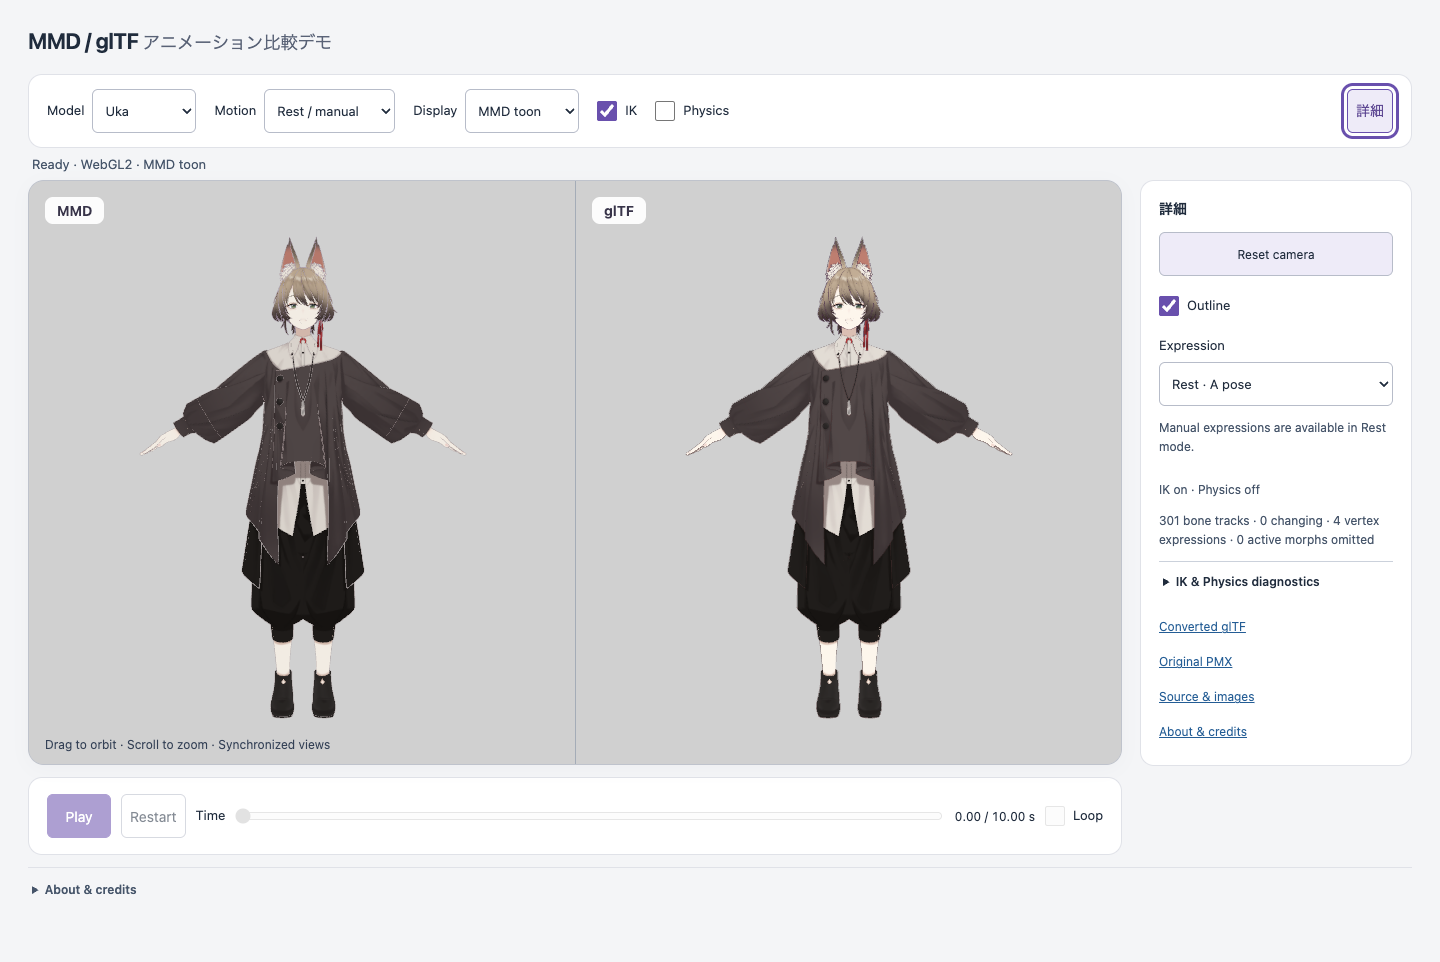
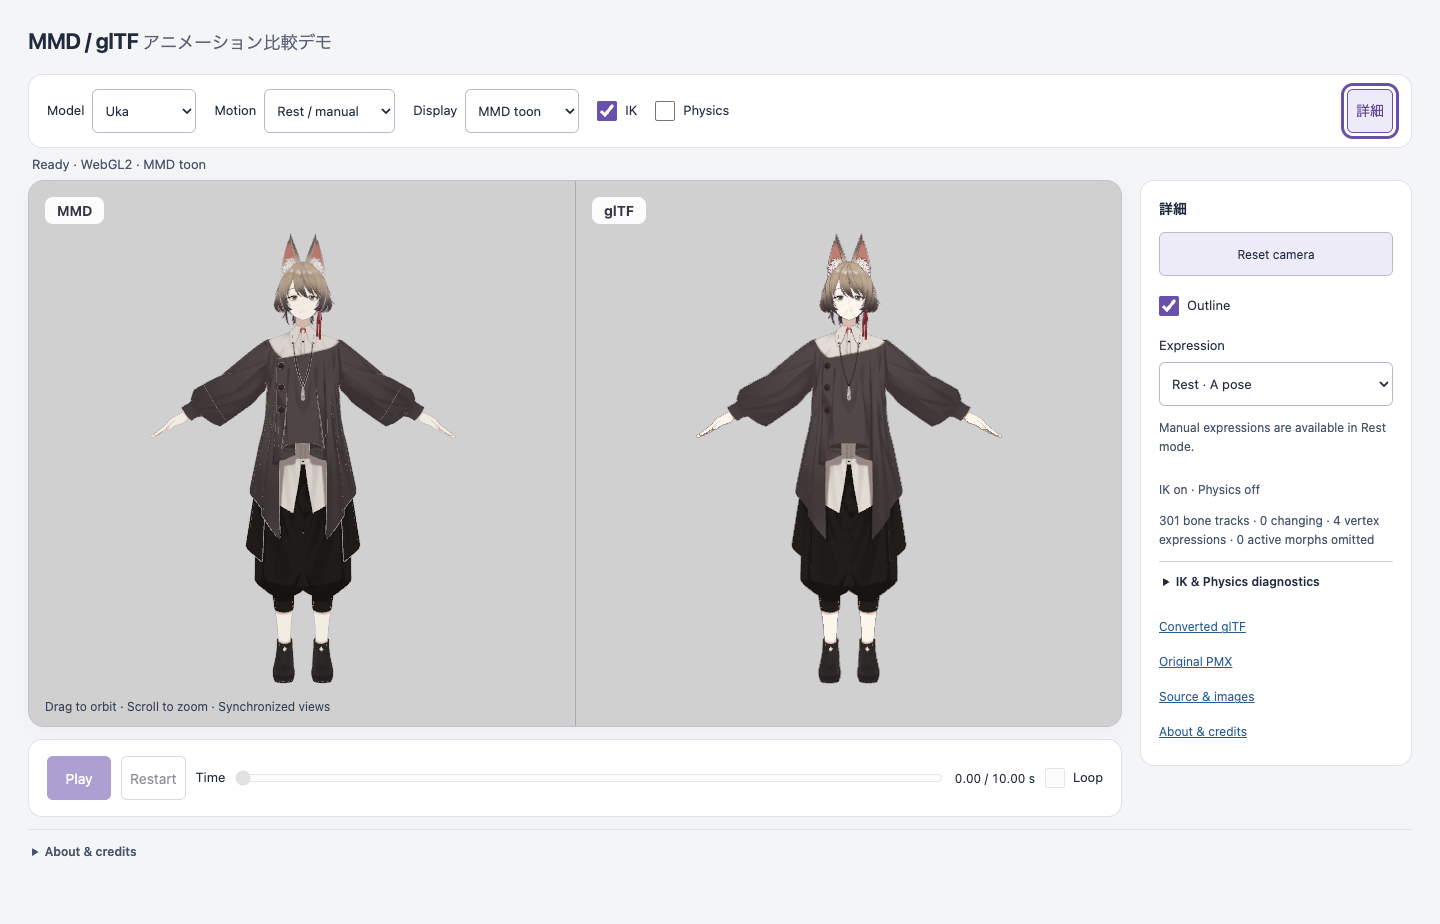
Prevent Details from cropping tablet comparison models (#83)

diff --git a/tests/browser/unified-demo.spec.ts b/tests/browser/unified-demo.spec.ts
@@ -1,6 +1,7 @@
 import { openComparisonDetails } from './demo-controls';
 import { orbitComparison } from './comparison-camera';
 import { test, expect, type Page } from '@playwright/test';
+import { PerspectiveCamera, Vector3 } from 'three';
 
 test.use({ contextOptions: { reducedMotion: 'reduce' } });
 const preview = `http://127.0.0.1:${process.env.MMD_PREVIEW_PORT || 43180}/mmd-gltf/`;
@@ -363,7 +364,7 @@ test('public layout: keyboard Details, responsive shared stage, framing and reso
   await page.locator('#comparison-camera-reset').click();
   await expect.poll(async () => (await state()).cameras[0].slice(0, 6)).toEqual(initialCamera);
 
-  for (const [width, height] of [[1440, 900], [900, 900], [390, 844], [320, 844]]) {
+  for (const [width, height] of [[1440, 900], [1201, 1366], [1200, 1366], [1024, 1366], [901, 900], [900, 900], [390, 844], [320, 844]]) {
     await page.setViewportSize({ width, height });
     for (const expanded of [false, true]) {
       if (await page.locator('#comparison-details-toggle').getAttribute('aria-expanded') !== String(expanded)) {
@@ -376,10 +377,12 @@ test('public layout: keyboard Details, responsive shared stage, framing and reso
       expect(pmx.width).toBeCloseTo(gltf.width, 0); expect(pmx.height).toBeCloseTo(gltf.height, 0);
       if (width <= 900) {
         expect(pmx.x).toBe(gltf.x); expect(gltf.y).toBeGreaterThanOrEqual(pmx.y + pmx.height);
-        if (expanded) expect((await page.locator('#comparison-details').boundingBox())!.y)
+      }
+      if (expanded) {
+        const details = (await page.locator('#comparison-details').boundingBox())!;
+        if (width <= 1200) expect(details.y)
           .toBeGreaterThan((await page.locator('.comparison-playback').boundingBox())!.y);
-      } else if (expanded) {
-        expect((await page.locator('#comparison-details').boundingBox())!.x).toBeGreaterThanOrEqual(gltf.x + gltf.width);
+        else expect(details.x).toBeGreaterThanOrEqual(gltf.x + gltf.width);
       }
       for (const id of ['demo-model', 'comparison-motion', 'material', 'comparison-ik', 'comparison-physics', 'comparison-details-toggle', 'comparison-time']) {
         const box = (await page.locator(`#${id}`).boundingBox())!;
@@ -389,6 +392,29 @@ test('public layout: keyboard Details, responsive shared stage, framing and reso
       expect((await page.locator('#comparison-time').boundingBox())!.width).toBeGreaterThan(width <= 900 ? 180 : 200);
       await page.evaluate(() => window.scrollTo(0, 0));
       await page.evaluate(() => (window as any).captureMMDComparisonCanvas());
+      // The complete rest bounds (including hands) must fit both actual rendered
+      // frusta, even on tall tablets with Details open. Resizing must not refit
+      // the camera, and Reset must retain the same complete framing.
+      if (expanded && (width === 901 || width === 1024)) {
+        await page.locator('#comparison-camera-reset').click();
+        await page.evaluate(() => (window as any).captureMMDComparisonCanvas());
+      }
+      const current = await state();
+      for (const [index, bounds] of [current.reference.bounds, current.gltf.bounds].entries()) {
+        const values = current.cameras[index];
+        expect(values.slice(0, 6)).toEqual(initialCamera);
+        const camera = new PerspectiveCamera(values[7], values[6], .01, 100);
+        camera.position.fromArray(values);
+        camera.lookAt(new Vector3().fromArray(values, 3));
+        camera.updateMatrixWorld(true);
+        for (const x of [bounds.min[0], bounds.max[0]])
+          for (const y of [bounds.min[1], bounds.max[1]])
+            for (const z of [bounds.min[2], bounds.max[2]]) {
+              const point = new Vector3(x, y, z).project(camera);
+              expect(Math.abs(point.x), `${width}×${height}, Details ${expanded}, pane ${index}: horizontal framing`).toBeLessThan(.98);
+              expect(Math.abs(point.y), `${width}×${height}, Details ${expanded}, pane ${index}: vertical framing`).toBeLessThan(.98);
+            }
+      }
       await page.screenshot({ path: info.outputPath(`after-${width}-${expanded ? 'expanded' : 'collapsed'}.png`), fullPage: true });
     }
   }

diff --git a/examples/style.css b/examples/style.css
@@ -367,8 +367,23 @@ a {
 .comparison-playback output { font-size:12px; font-variant-numeric:tabular-nums; white-space:nowrap; }
 #about-demo { border-top:1px solid #e0e2e8; }
 
-@media(max-width:900px) {
+/* Keep each desktop pane at least square so the saved model framing also fits
+   horizontally on tall windows. Narrower screens retain the stacked stage. */
+@media(min-width:901px) {
+  #viewport {
+    width:100%;
+    aspect-ratio:2;
+    height:auto;
+    min-height:0;
+    max-height:clamp(440px,65vh,760px);
+  }
+}
+
+@media(max-width:1200px) {
   .comparison-layout:has(>aside:not([hidden])) { grid-template-columns:minmax(0,1fr); }
+}
+
+@media(max-width:900px) {
   .primary-toolbar { padding:12px; gap:10px; }
   #comparison-primary { display:contents; }
   .primary-toolbar > label:not(.toggle), #comparison-primary > label:not(.toggle) {

diff --git a/docs/comparison-ui.md b/docs/comparison-ui.md
@@ -8,7 +8,9 @@ are announced above the stage even with Details closed.
 
 **詳細** (Details) is a keyboard-operable disclosure button. On wide screens it
 opens a secondary panel beside the viewers; closing it restores both viewers'
-width. At 900px and below it opens below the viewers and timeline. It contains
+width. At 1200px and below it opens below the viewers and timeline. Above 900px,
+each viewer stays at least square to keep the full default model framing visible
+on tall windows; at 900px and below the viewers stack vertically. It contains
 model-specific camera reset, Outline, Uka's manual Rest-mode Expression selector,
 read-only binding/IK/Physics diagnostics and actual model/source downloads.
 Reset camera restores the selected model's initial shared orbit, target and zoom
@@ -128,3 +130,30 @@ The Uka long seek completed locally in **52,368 ms**, at tick 1188 and time 9.9,
 with no constraint failures or browser errors and zero native allocations after
 cleanup. A hosted CI rerun for this correction remains pending publication;
 this revision does not push or merge.
+
+### Tablet framing correction (2026-11-05)
+
+Details now opens below the timeline through 1200px. Above the 900px stacking
+breakpoint, the stage height is capped relative to its width so each pane stays
+at least square. This preserves Uka's complete default framing on tall tablets
+without changing the camera or resetting an existing orbit. Closing the desktop
+sidebar still restores the full viewer width.
+
+The layout regression now includes 901 × 900, 1024 × 1366, and both sides of the
+1200px sidebar breakpoint, with Details open and closed. It projects the full
+rest bounds into both actual render cameras and requires them to fit, preserving
+camera position and target across resizing and checking Reset at both reported
+tablet sizes. The original layout fails this check with Details open on a tall
+window. Captures: [901 × 900](comparison-ui/after-901-expanded.png) and
+[1024 × 1366](comparison-ui/after-1024-expanded.png).
+
+Revision validation: `npm ci`, `npm run build` plus the final CSS Vite rebuild,
+typecheck, all **186 Node tests**, Toon/Outline fixture checks, **555 link checks**
+and `git diff --check` passed. The focused `example`, `uka` and `unified-demo`
+browser suites passed **18 cases**, with one optional native-WebGPU skip (no
+adapter), zero failures and no retries, in 8.7 minutes. They used pinned Chromium
+141.0.7390.37, SwiftShader and `MMD_PREVIEW_PORT=43181`. All existing pixel,
+precision, controls and lifecycle assertions remain. The four full browser
+shards were not repeated for this CSS revision; hosted CI and the required
+post-merge Pages verification remain pending. Physical-device tests remain
+unperformed.
